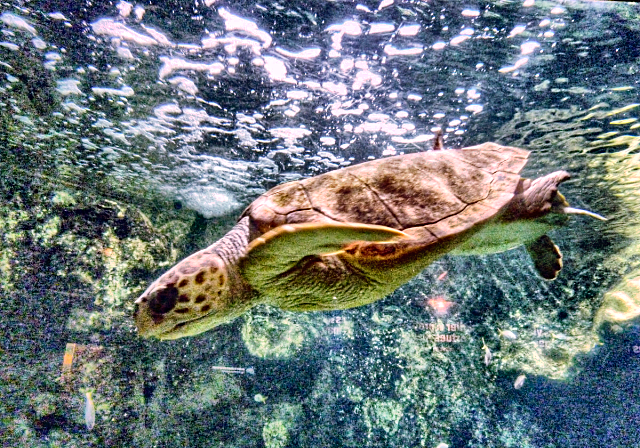
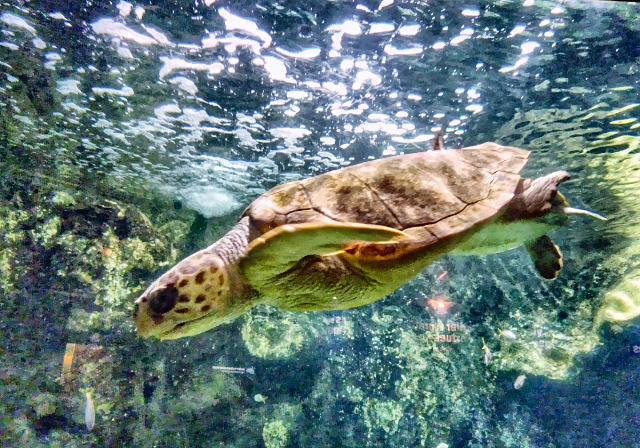
second version

diff --git a/q2.py b/q2.py
@@ -39,15 +39,20 @@ GIVEN_REF = os.path.join(os.path.dirname(os.path.abspath(__file__)), "data", "ui
 # ---------------------------------------------------------------------------
 CFG = dict(
     alpha=1.0,          # red compensation strength
-    gain_lo=0.5,        # gray-world gains are clipped to [gain_lo, gain_hi]
-    gain_hi=2.0,
-    clahe_clip=2.0,     # CLAHE clip limit (on L channel)
+    gain_lo=0.7,        # gray-world gains are clipped to [gain_lo, gain_hi]
+    gain_hi=1.5,
+    wb_strength=0.5,    # gains**wb_strength: 0 = no balancing, 1 = full gray world
+    den_d=7,            # bilateral denoise: neighbourhood diameter
+    den_sc=20,          # bilateral: colour sigma (gray levels)
+    den_ss=5,           # bilateral: spatial sigma (pixels)
+    max_slope=3.0,      # histogram-spec LUT: maximum slope (limits noise/banding amplification)
+    clahe_clip=1.5,     # CLAHE clip limit (on L channel)
     clahe_tile=8,       # CLAHE tile grid (8x8)
-    beta=0.6,           # blend weight of histogram specification (0 = off, 1 = full)
+    beta=0.4,           # blend weight of histogram specification (0 = off, 1 = full)
     usm_sigma=2.0,      # unsharp mask Gaussian sigma
-    usm_amount=0.5,     # unsharp mask strength
+    usm_amount=0.3,     # unsharp mask strength
 )
-STEPS = ("red", "wb", "clahe", "hist", "sharpen")
+STEPS = ("denoise", "red", "wb", "clahe", "hist", "sharpen")
 
 _TARGET_CDF = None  # cached mean CDF of the given references, shape (3, 256), BGR order
 
@@ -89,10 +94,10 @@ def red_compensation(f, alpha):
     return out
 
 
-def gray_world(f, lo, hi):
+def gray_world(f, lo, hi, strength=1.0):
     """Remaining colour cast (blue / green) fix: scale each channel so channel means are equal."""
     means = f.reshape(-1, 3).mean(axis=0) + 1e-6
-    gains = np.clip(means.mean() / means, lo, hi)
+    gains = np.clip((means.mean() / means) ** strength, lo, hi)
     return np.clip(f * gains, 0, 1)
 
 
@@ -106,7 +111,7 @@ def clahe_lightness(img8, clip, tile):
 
 
 # ----------------------------- technique 3: histogram specification ----------------
-def hist_specification(img8, target_cdf, beta):
+def hist_specification(img8, target_cdf, beta, max_slope=3.0):
     """Per-channel histogram matching to the mean reference histogram, blended with the input:
     out = beta*matched + (1-beta)*input. Own implementation via CDF inversion."""
     out = np.empty_like(img8)
@@ -116,6 +121,11 @@ def hist_specification(img8, target_cdf, beta):
         cdf = np.cumsum(h)
         cdf /= cdf[-1]
         lut = np.interp(cdf, target_cdf[c], levels)   # for each input level, level with equal CDF
+        # regularise the LUT: smooth it and cap its slope so sparsely populated ranges
+        # (e.g. the almost-empty red channel) are not stretched into noise / banding
+        k = np.exp(-0.5 * (np.arange(-6, 7) / 2.0) ** 2); k /= k.sum()
+        lut = np.convolve(np.pad(lut, 6, mode="edge"), k, mode="valid")
+        lut = lut[0] + np.concatenate([[0.0], np.cumsum(np.clip(np.diff(lut), 0, max_slope))])
         out[..., c] = np.clip(lut, 0, 255).astype(np.uint8)[img8[..., c]]
     mixed = beta * out.astype(np.float32) + (1 - beta) * img8.astype(np.float32)
     return np.clip(mixed + 0.5, 0, 255).astype(np.uint8)
@@ -134,22 +144,25 @@ def enhance_underwater(img, skip=()):
     img : uint8 array of shape (H, W, 3), BGR (as read by cv2.imread)
     returns : uint8 array of shape (H, W, 3), BGR
 
-    Pipeline: red compensation -> gray world -> CLAHE(L) -> histogram specification -> unsharp mask.
+    Pipeline: bilateral denoise -> red compensation -> gray world -> CLAHE(L) -> histogram specification -> unsharp mask.
     `skip` (tuple of names in STEPS) is only used for the ablation study; default = full pipeline.
     """
     c = CFG
+    if "denoise" not in skip:
+        # placed FIRST: every later step boosts contrast and would amplify noise / JPEG blocks
+        img = cv2.bilateralFilter(img, c["den_d"], c["den_sc"], c["den_ss"])
     f = img.astype(np.float32) / 255.0
     if "red" not in skip:
         f = red_compensation(f, c["alpha"])
     if "wb" not in skip:
-        f = gray_world(f, c["gain_lo"], c["gain_hi"])
+        f = gray_world(f, c["gain_lo"], c["gain_hi"], c["wb_strength"])
     out = np.clip(f * 255.0 + 0.5, 0, 255).astype(np.uint8)
     if "clahe" not in skip:
         out = clahe_lightness(out, c["clahe_clip"], c["clahe_tile"])
     if "hist" not in skip:
         tcdf = _load_target_cdf()
         if tcdf is not False:
-            out = hist_specification(out, tcdf, c["beta"])
+            out = hist_specification(out, tcdf, c["beta"], c["max_slope"])
     if "sharpen" not in skip:
         out = unsharp_mask(out, c["usm_sigma"], c["usm_amount"])
     return out

diff --git a/ablate_q2.py b/ablate_q2.py
@@ -26,12 +26,19 @@ show("FULL pipeline", score(q2.enhance_underwater))
 for s in q2.STEPS:
     show(f"without {s}", score(lambda x, s=s: q2.enhance_underwater(x, skip=(s,))))
 
+# restore after sweeps
 print("\n--- sweeps (fixed globally, pick ONE value for all images) ---")
-for beta in (0.0, 0.3, 0.6, 0.8, 1.0):
+for beta in (0.0, 0.2, 0.4, 0.6, 1.0):
     q2.CFG["beta"] = beta; show(f"beta={beta}", score(q2.enhance_underwater))
-q2.CFG["beta"] = 0.6
-for clip in (1.0, 2.0, 3.0, 4.0):
+q2.CFG["beta"] = 0.4
+for clip in (1.0, 1.5, 2.0, 3.0):
     q2.CFG["clahe_clip"] = clip; show(f"clahe_clip={clip}", score(q2.enhance_underwater))
-q2.CFG["clahe_clip"] = 2.0
+q2.CFG["clahe_clip"] = 1.5
 for a in (0.0, 0.5, 1.0, 1.5):
     q2.CFG["alpha"] = a; show(f"alpha={a}", score(q2.enhance_underwater))
+q2.CFG["alpha"] = 1.0
+for w in (0.0, 0.5, 1.0):
+    q2.CFG["wb_strength"] = w; show(f"wb_strength={w}", score(q2.enhance_underwater))
+q2.CFG["wb_strength"] = 0.5
+for sl in (1.5, 3.0, 6.0):
+    q2.CFG["max_slope"] = sl; show(f"max_slope={sl}", score(q2.enhance_underwater))
